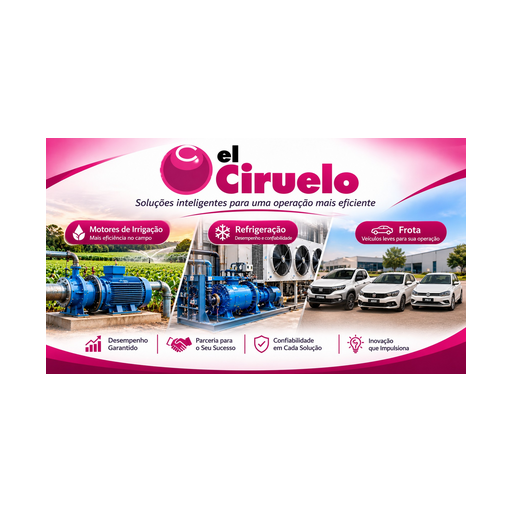
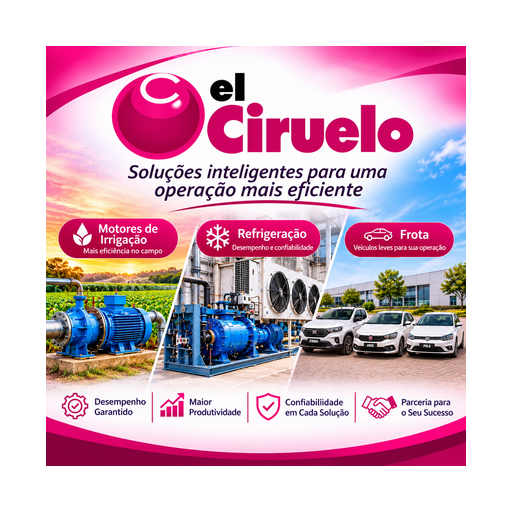
refactor: rename application to "Gestão Manutenção"
Update the application title, manifest metadata, and assets to reflect the new standardized name "Gestão Manutenção".

diff --git a/index.html b/index.html
@@ -3,17 +3,17 @@
   <head>
     <meta charset="UTF-8" />
     <meta name="viewport" content="width=device-width, initial-scale=1.0, viewport-fit=cover" />
-    <title>el Ciruelo - Gestão e Manutenção Operacional</title>
+    <title>Gestão Manutenção</title>
     <meta name="description" content="Sistema de Checklist e Ordens de Serviço do Grupo el Ciruelo para gestão e manutenção operacional interna das fazendas Vale das Uvas, Brasil Uvas, Labrunier 1 e Labrunier 2." />
-    <meta property="og:title" content="el Ciruelo - Gestão e Manutenção Operacional" />
+    <meta property="og:title" content="Gestão Manutenção" />
     <meta property="og:description" content="Sistema de Checklist e Ordens de Serviço do Grupo el Ciruelo para gestão e manutenção operacional interna das fazendas Vale das Uvas, Brasil Uvas, Labrunier 1 e Labrunier 2." />
     <meta property="og:type" content="website" />
-    <meta property="og:image" content="/assets/aistudio/el_ciruelo_banner_menos_de_1mb_2308b010.jpg" />
+    <meta property="og:image" content="/assets/aistudio/0d75c149-dda7-44f2-b10d-195f2cd09547_5fa1480e.png" />
     <meta name="theme-color" content="#065f46" />
     <meta name="mobile-web-app-capable" content="yes" />
     <meta name="apple-mobile-web-app-capable" content="yes" />
     <meta name="apple-mobile-web-app-status-bar-style" content="default" />
-    <meta name="apple-mobile-web-app-title" content="el Ciruelo" />
+    <meta name="apple-mobile-web-app-title" content="Gestão Manutenção" />
     <link rel="icon" type="image/png" sizes="192x192" href="/pwa-192x192.png" />
     <link rel="icon" type="image/png" sizes="512x512" href="/pwa-512x512.png" />
     <link rel="apple-touch-icon" sizes="180x180" href="/apple-touch-icon.png" />

diff --git a/src/components/PWAInstallButton.tsx b/src/components/PWAInstallButton.tsx
@@ -55,12 +55,12 @@ export const PWAInstallButton: React.FC<PWAInstallButtonProps> = ({ compact = fa
               <div className="flex items-center space-x-3 min-w-0">
                 <img
                   src="/pwa-192x192.png"
-                  alt="el Ciruelo"
+                  alt="Gestão Manutenção"
                   className="w-11 h-11 rounded-xl bg-white p-0.5 object-contain shadow-sm shrink-0"
                 />
                 <div className="min-w-0">
                   <h3 className="text-sm sm:text-base font-extrabold leading-tight truncate">
-                    Instalar App el Ciruelo
+                    Instalar Gestão Manutenção
                   </h3>
                   <p className="text-[11px] text-emerald-200 truncate">
                     Acesso rápido em tela cheia · Android e iOS

diff --git a/vite.config.ts b/vite.config.ts
@@ -19,8 +19,8 @@ export default defineConfig(() => {
         ],
         manifest: {
           id: '/',
-          name: 'el Ciruelo - Gestão e Manutenção Operacional',
-          short_name: 'el Ciruelo',
+          name: 'Gestão Manutenção',
+          short_name: 'Gestão Manutenção',
           description:
             'Sistema de Checklist, Ordens de Serviço, Frota e Manutenção Operacional do Grupo el Ciruelo.',
           theme_color: '#065f46',
